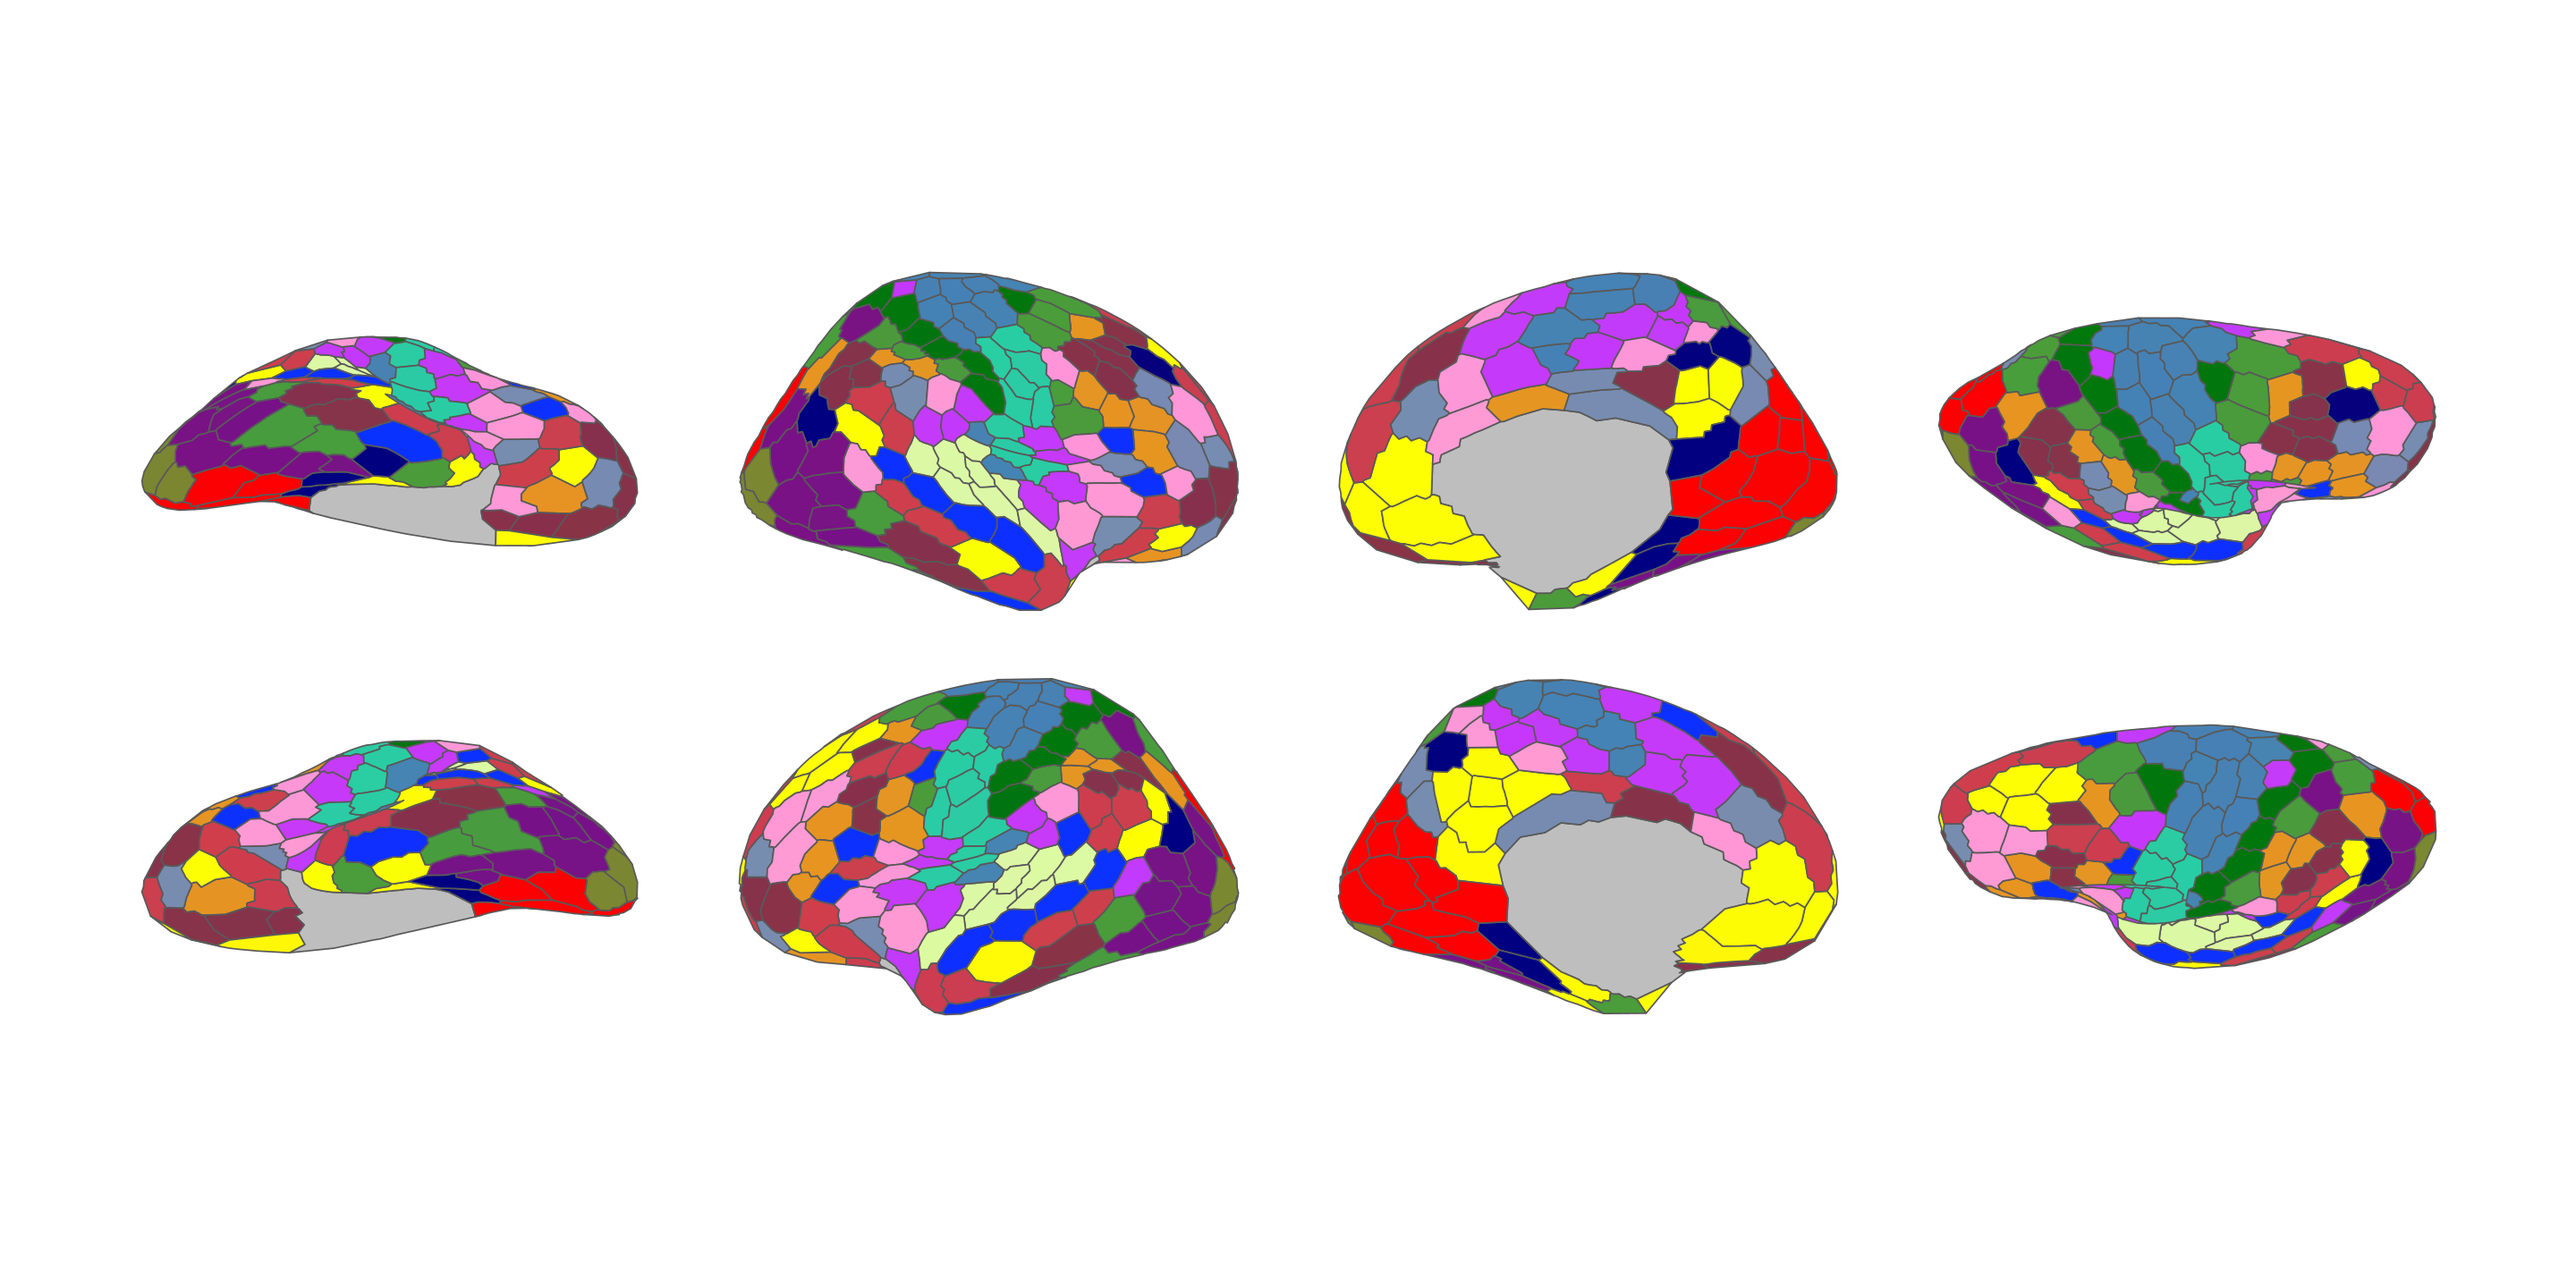
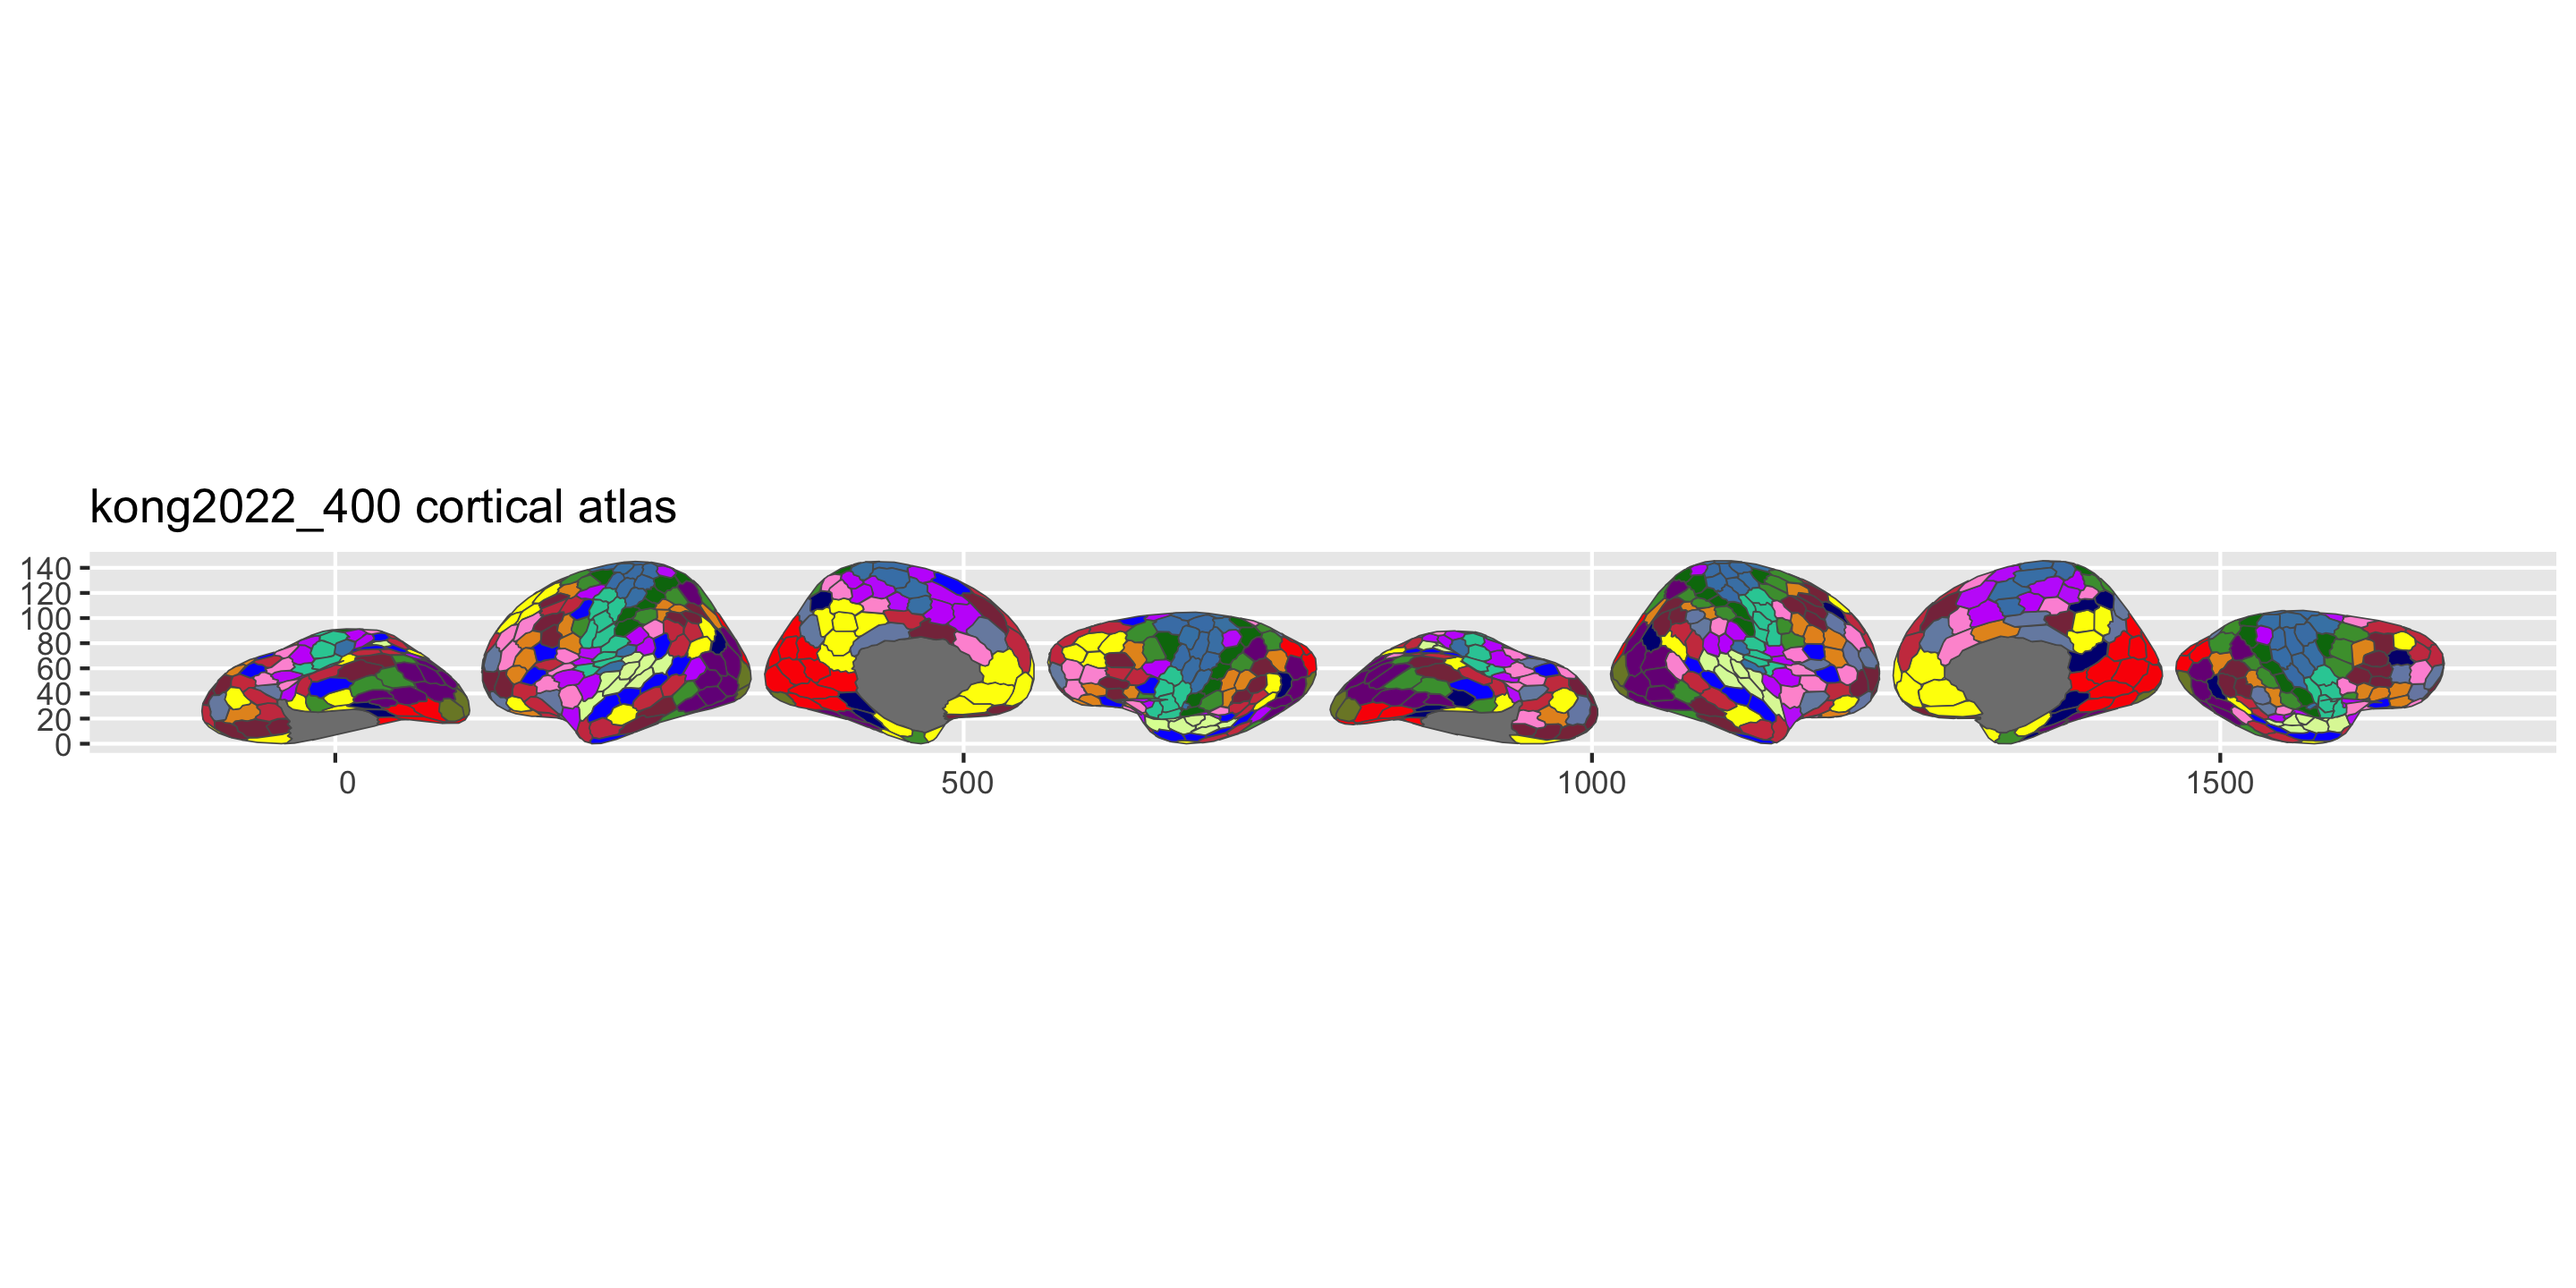
Simplify README plot examples to use plot()
Remove explicit ggplot() + geom_brain(mapping = aes(fill = label)) +
scale_fill_manual() in favour of plot(), which handles colours by default.

diff --git a/README.md b/README.md
@@ -42,17 +42,8 @@ pak::pak("ggsegverse/ggsegKong")
 ``` r
 library(ggseg)
 library(ggsegKong)
-library(ggplot2)
 
-ggplot() +
-  geom_brain(
-    atlas = kong2019(),
-    mapping = aes(fill = label),
-    position = position_brain(hemi ~ view),
-    show.legend = FALSE
-  ) +
-  scale_fill_manual(values = kong2019()$palette, na.value = "grey") +
-  theme_void()
+plot(kong2019())
 ```
 
 <img src="man/figures/README-kong2019-1.png" style="width:100.0%" />
@@ -62,15 +53,7 @@ ggplot() +
 comes in variants of 100 - 1000.
 
 ``` r
-ggplot() +
-  geom_brain(
-    atlas = kong2022_400(),
-    mapping = aes(fill = label),
-    position = position_brain(hemi ~ view),
-    show.legend = FALSE
-  ) +
-  scale_fill_manual(values = kong2022_400()$palette, na.value = "grey") +
-  theme_void()
+plot(kong2022_400())
 ```
 
 <img src="man/figures/README-kong2022-400-1.png" style="width:100.0%" />
